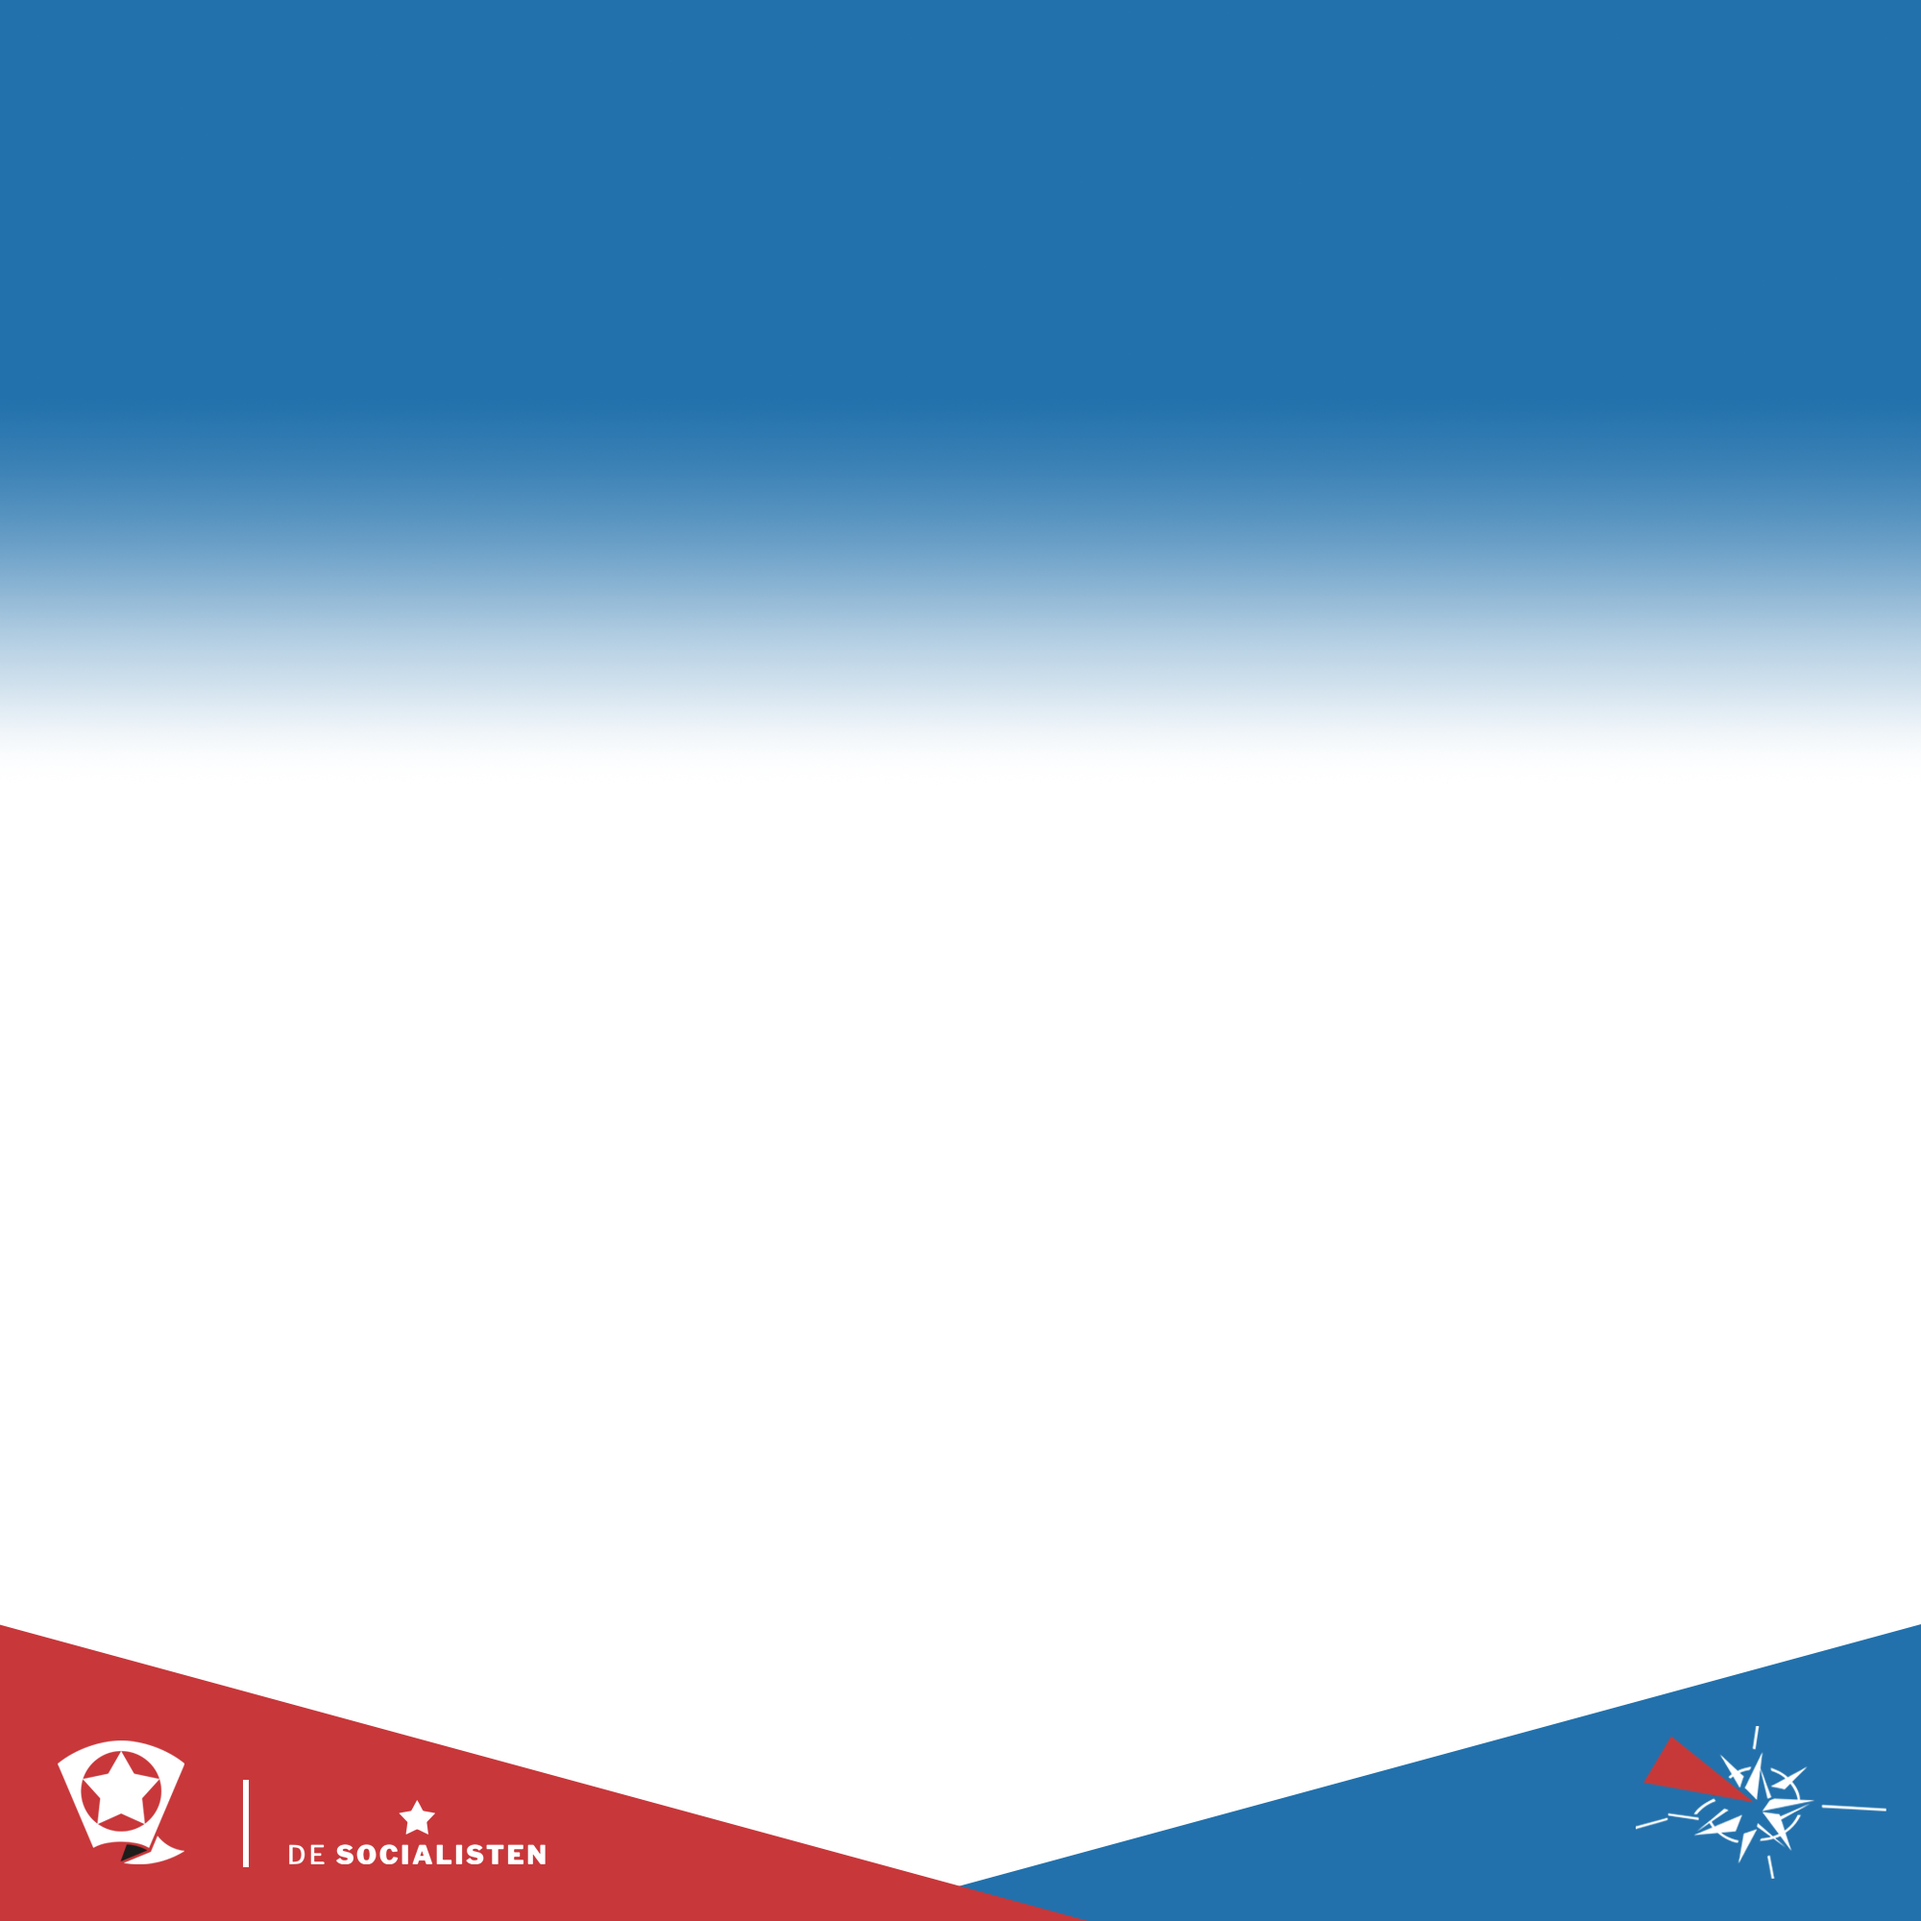
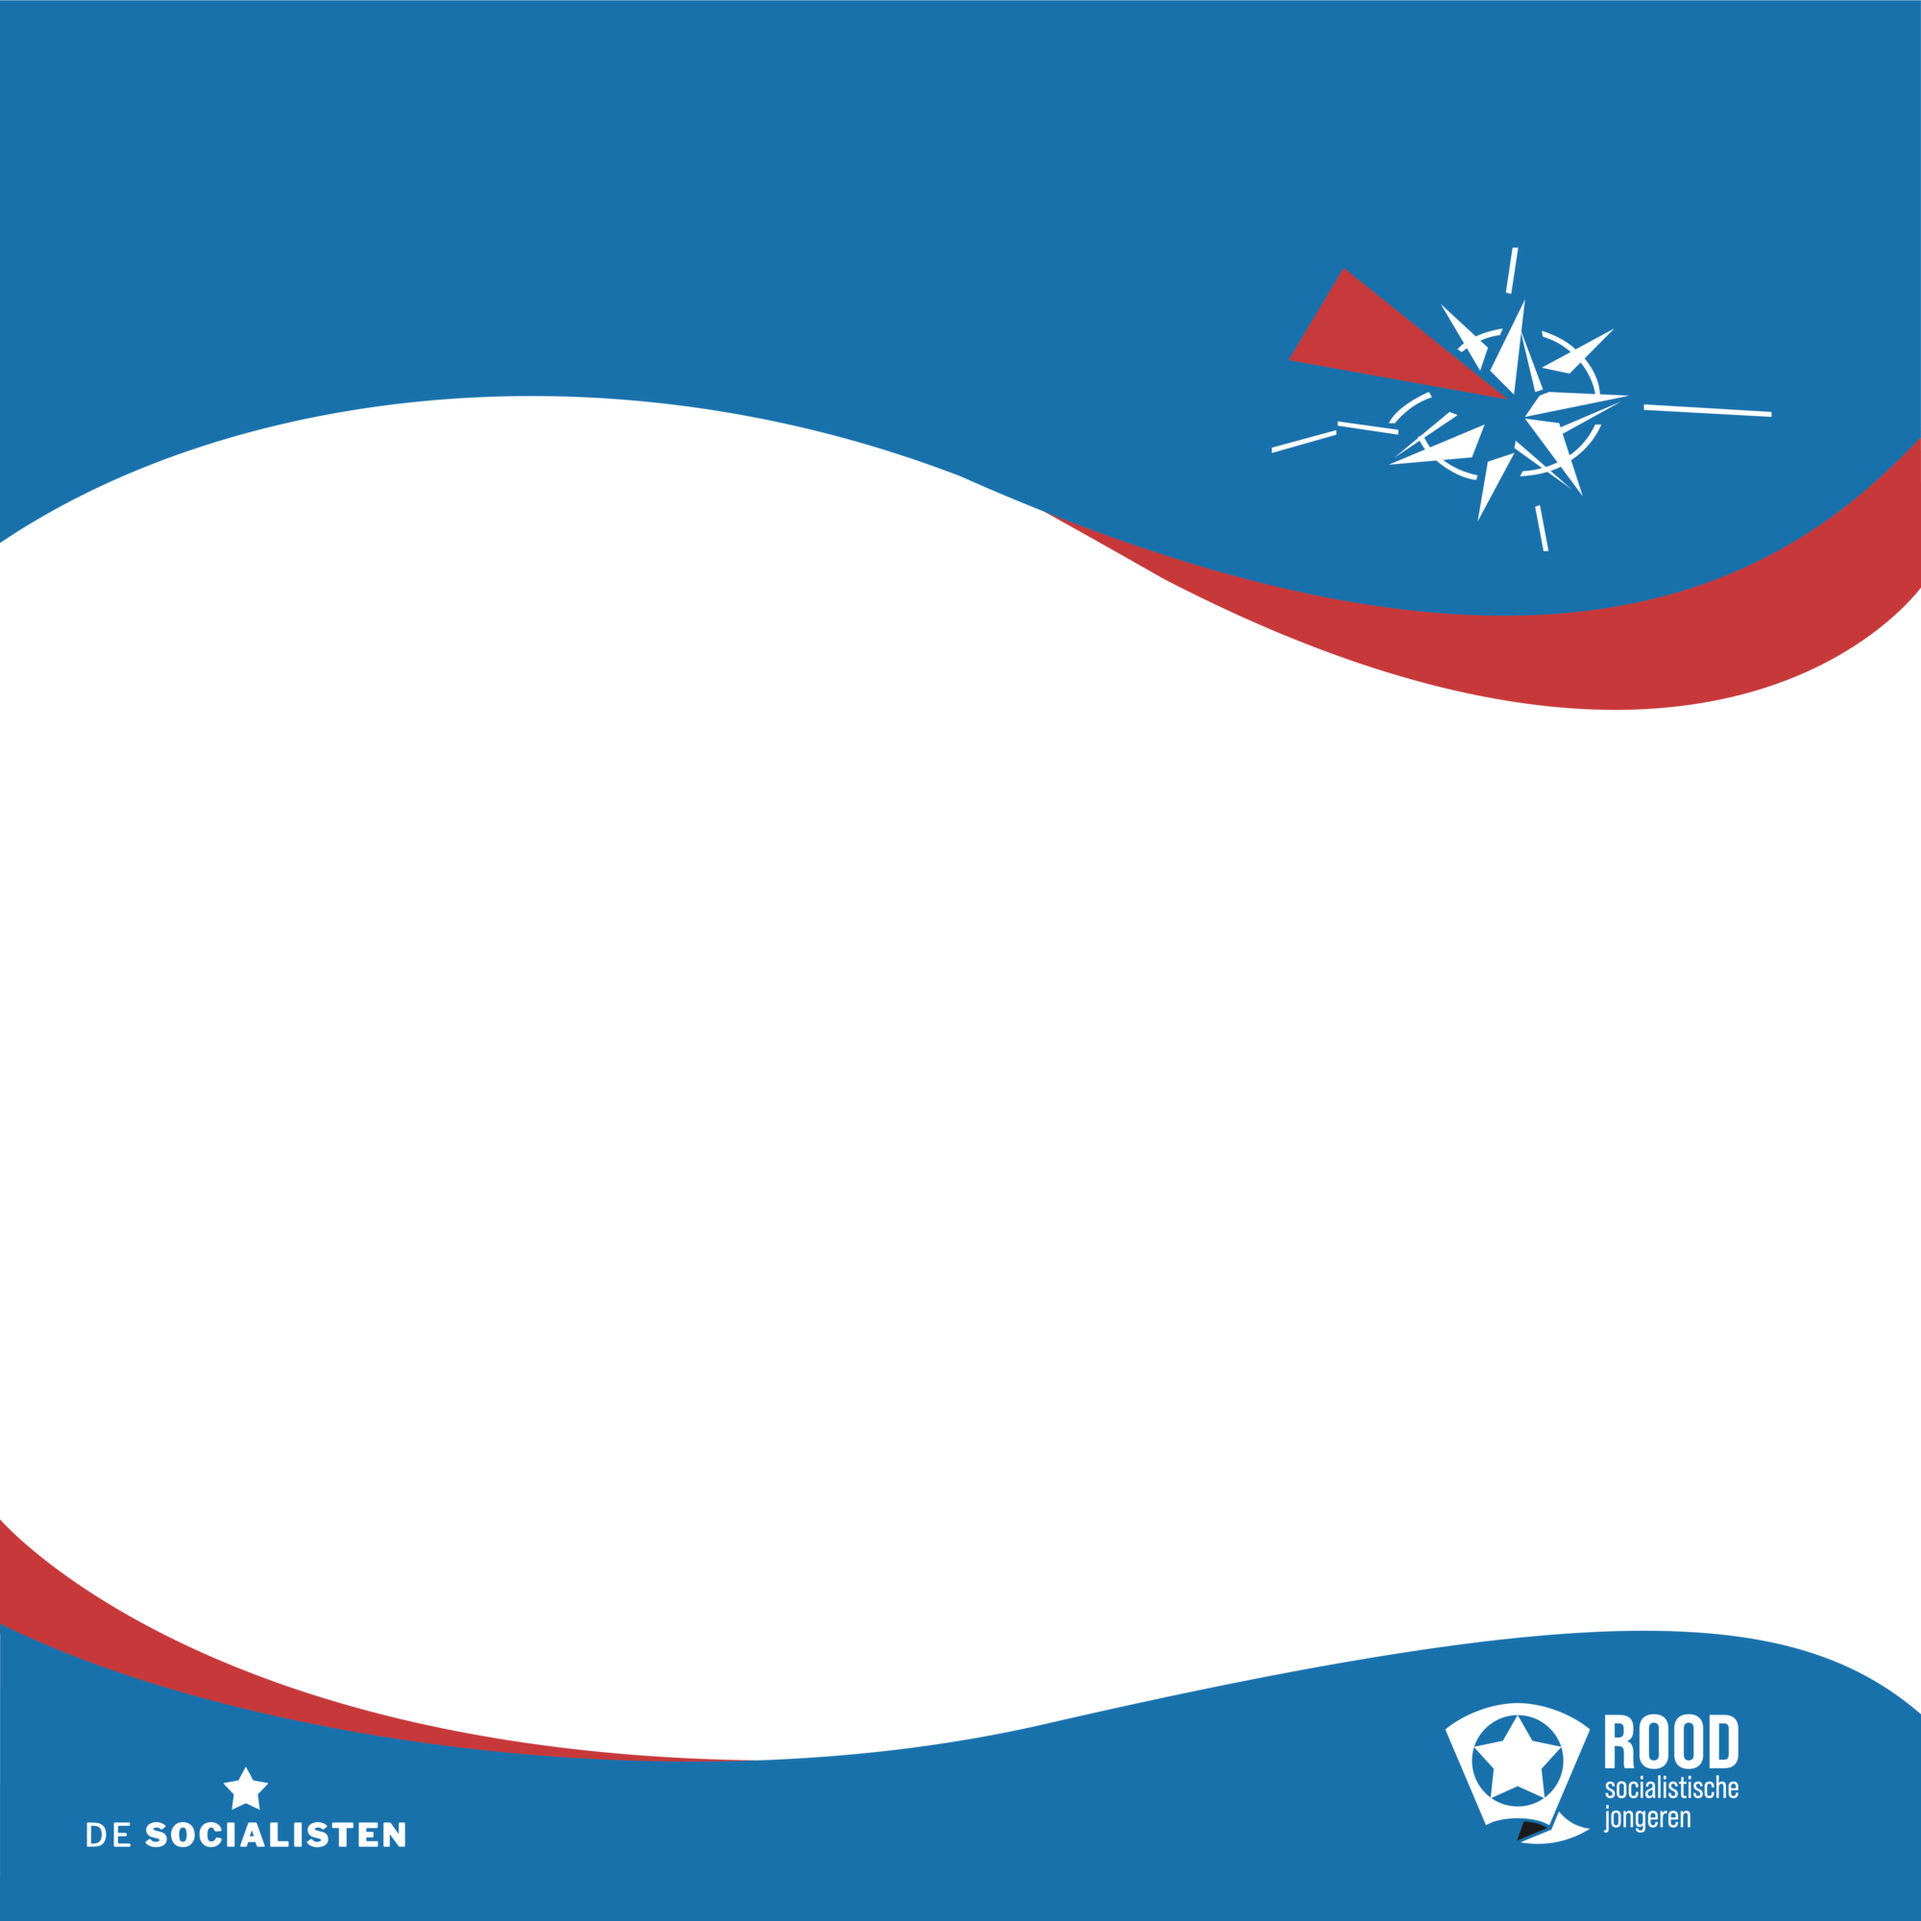
Update templates for NATO campaign

Changed region(s): [[0.0, 0.124, 1.0, 0.372], [0.0, 0.775, 1.0, 1.0]]

diff --git a/js/navoslide1.js b/js/navoslide1.js
@@ -12,22 +12,26 @@ const topText = new TextDrawable({
     color: "white",
     allCaps: true,
     context,
-    xPosition: 200,
+    xPosition: 100,
     yPosition: 100,
     maxWidth: 1600,
     maxHeight: 400,
     inputID: "titelText",
-    doCenter: true,
-    doDynamicSize: true,
+    doCenter: false,
+    doDynamicSize: false,
+    fontSize: 120,
 });
 topText.makeDraggable();
-topText.lockXPosition();
+
+const topTextSizeSlider = document.getElementById("titelSize");
+topText.setFont(size=topTextSizeSlider.value);
+topTextSizeSlider.addEventListener("input", _ => topText.setFont(topTextSizeSlider.value));
 
 const overlay = new ImgWrapper("templateImages/NAVOSlide1/overlay.png");
 
 // Define layers here
 let layers = [
-    backgroundImage, 
+    backgroundImage,
     overlay,
     topText,
 ];

diff --git a/NAVOSlide1.html b/NAVOSlide1.html
@@ -26,6 +26,10 @@
       <label name="titelText">Titel:</label>
       <textarea id="titelText">Jouw titel&#13;hier</textarea>
     </div>
+    <div class="labelInputPair">
+      <label name="titelSize">Grootte titel:</label>
+      <input type="range" id="titelSize" min="50" max="500" step="1" value="120">
+    </div>
     <br>
     <button id="downloadButton" onclick="download('Evenement')">Download</button>
   </div>
